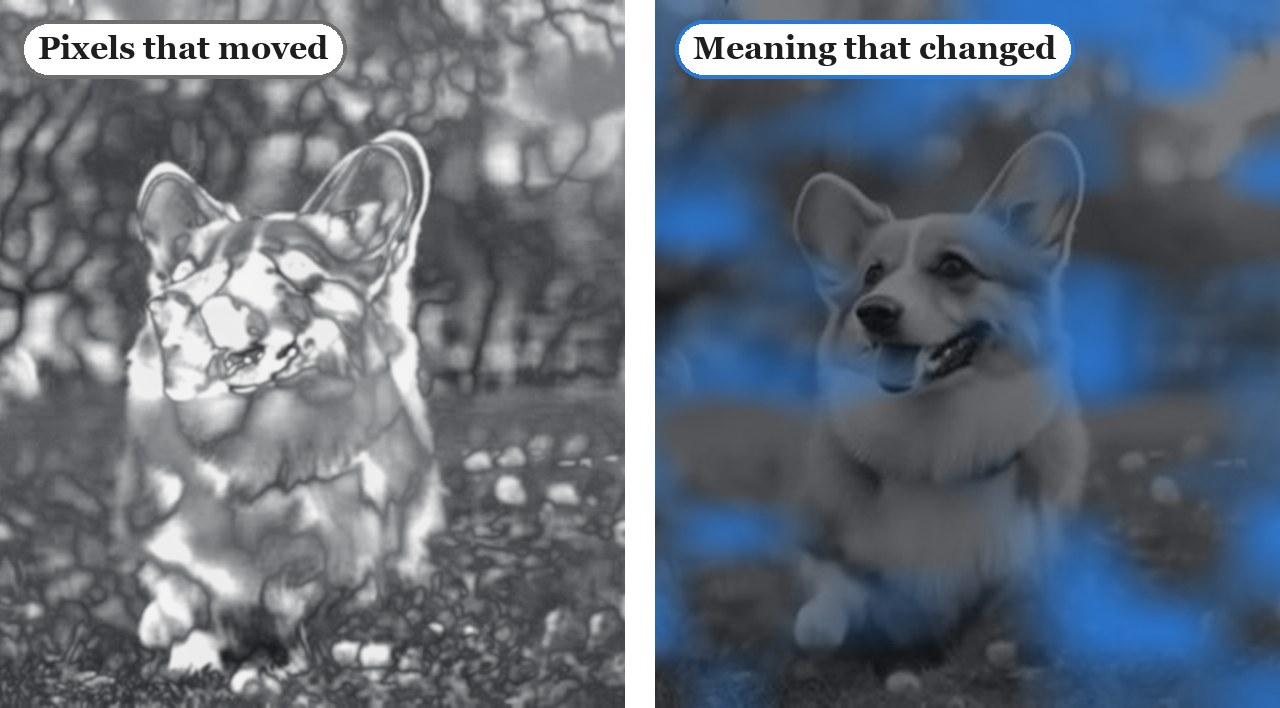
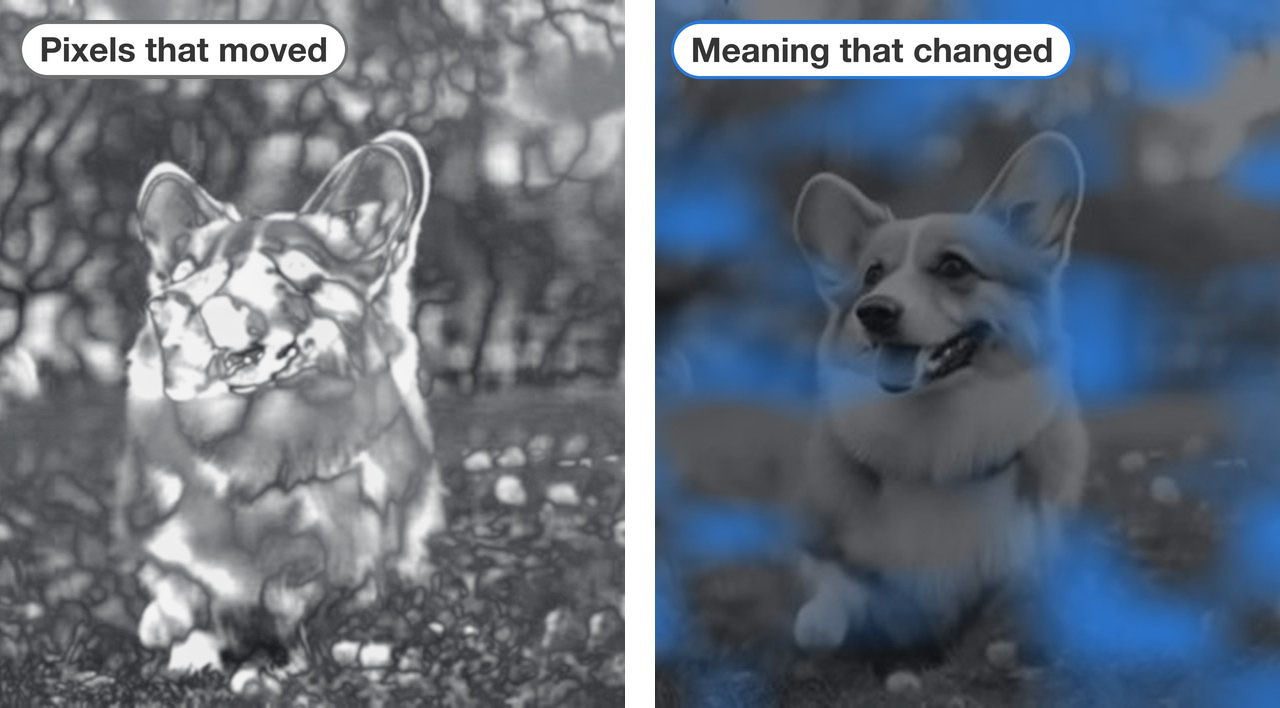
Set text inside figures in Helvetica Neue
The stream-card descriptions and the explorer's "X% of clips" line were
still in Charter, as was the pair of labels baked into streams/change.jpg.
Figure text now uses the sans stack like the rest of each figure; running
text and captions stay in Charter.

The two labels in change.jpg are repainted in Helvetica Neue Bold over the
old ones (same pill size, borders and colors), and its cache-buster bumped.

Claude-Session: https://claude.ai/code/session_01PUg5Joo5EfckQK2oirbJmG

Changed region(s): [[0.5, 0.0311, 0.8438, 0.1243], [0.0312, 0.0311, 0.2812, 0.0932]]

diff --git a/assets/stylesheets/seam.css b/assets/stylesheets/seam.css
@@ -5,7 +5,8 @@
 
    Every token (--ink, --sans, --rule, --navy, …) comes from template.css
    and nothing here redefines one. Labels, controls and plot text use the
-   sans stack; running text and captions stay in Charter. Color is kept
+   sans stack, and so does any text inside a figure or plot; running text
+   and captions stay in Charter. Color is kept
    for data: the four stream hues, AI vs. real, and the plot groups.
    =================================================================== */
 
@@ -137,6 +138,9 @@ table.data td b { color: var(--ink); }
   display: block; width: 100%; height: auto;
   border-radius: 6px; padding: 0 !important; margin: 0 0 10px;
 }
+/* text inside a figure is set in the sans, like the rest of the figure;
+   template.css sets .card-body in Charter for quotation cards */
+.stream-grid .card-body { font-family: var(--sans); font-size: 14px; line-height: 1.5; }
 .stream-grid .swatch {
   display: inline-block; width: 9px; height: 9px; border-radius: 50%;
   margin-right: 7px; vertical-align: 1px;
@@ -251,7 +255,7 @@ table.data td b { color: var(--ink); }
   font: 700 26px/1 var(--sans); margin-right: 10px; vertical-align: middle;
   font-variant-numeric: tabular-nums;
 }
-.story-stat .txt { font: 15px/1.4 "Charter", Georgia, serif; color: var(--ink-2); vertical-align: middle; }
+.story-stat .txt { font: 14.5px/1.4 var(--sans); color: var(--ink-2); vertical-align: middle; }
 
 .plot-wrap svg { display: block; width: 100%; height: auto; }
 .plot-wrap .gridline { stroke: var(--hair); stroke-width: 1; }

diff --git a/index.html b/index.html
@@ -159,7 +159,7 @@
     </div>
     <div class="card">
       <div class="card-head"><span><span class="swatch" style="background:#2a78d6"></span>Semantic change</span><span class="eyebrow">Physical plausibility</span></div>
-      <img src="assets/img/streams/change.jpg?v=1792381466" alt="Two views of the same frame pair: raw pixel difference on the left, the model's semantic change map in blue on the right" loading="lazy">
+      <img src="assets/img/streams/change.jpg?v=1793577600" alt="Two views of the same frame pair: raw pixel difference on the left, the model's semantic change map in blue on the right" loading="lazy">
       <div class="card-body">Left: where raw pixels moved between two frames. Right: where the encoder's features changed unusually (blue). They are different things.</div>
     </div>
   </div>
